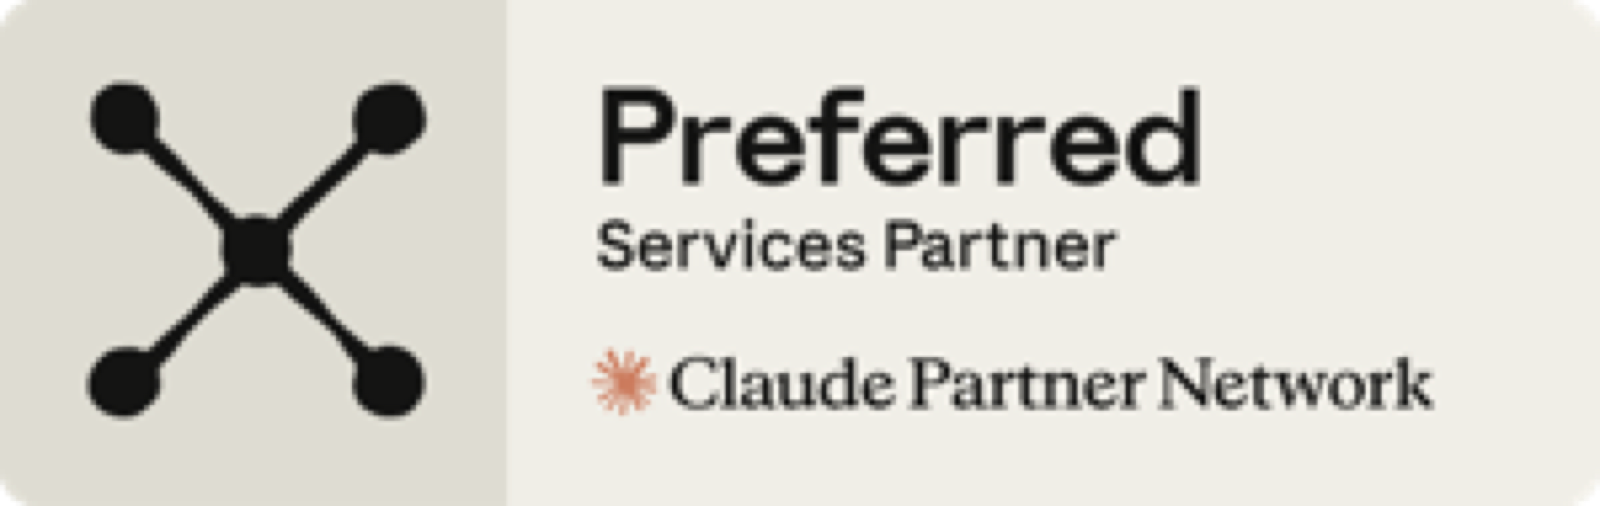
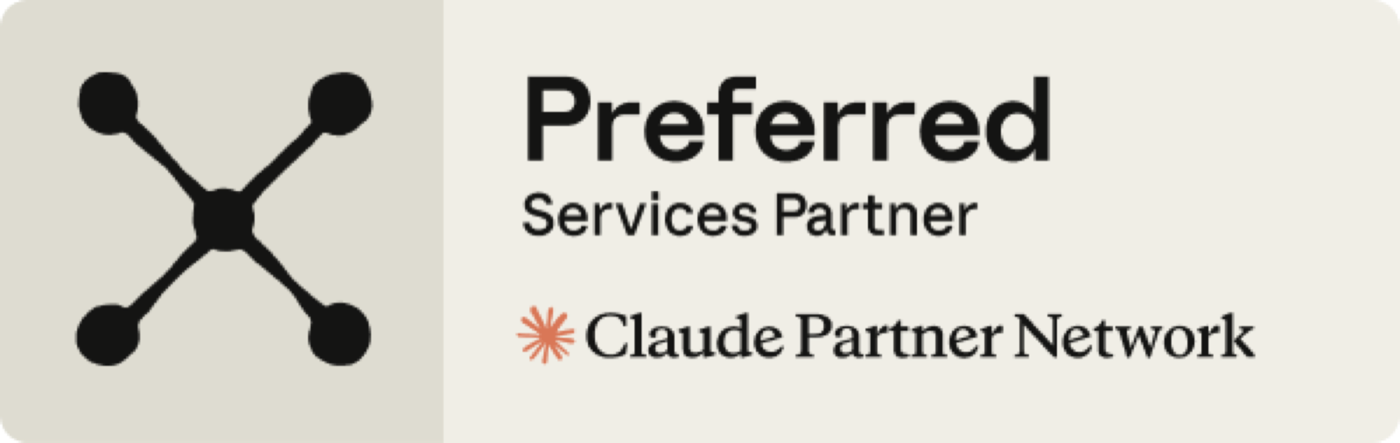
refine(partners): center person in team cloud, "公式パートナー" labels, hi-DPI Anthropic badge
- IllustTeam: reposition the person mark to sit centered within the cloud body
- Partners section labels → "Salesforce 公式パートナー" / "Anthropic 公式パートナー"
- Replace Anthropic badge PNG with a crisp high-DPI render (was upscaled/soft)

diff --git a/src/App.tsx b/src/App.tsx
@@ -261,9 +261,9 @@ const IllustTeam = () => (
       <circle cx="58" cy="40" r="20" fill={SF_BLUE} />
       <rect x="20" y="30" width="56" height="20" rx="10" fill={SF_BLUE} />
     </g>
-    {/* center person mark */}
-    <circle cx="150" cy="84" r="7" fill="white" />
-    <path d="M138 100 a12 10 0 0 1 24 0 z" fill="white" />
+    {/* center person mark — centered within the cloud body */}
+    <circle cx="150" cy="73" r="8" fill="white" />
+    <path d="M137 92 a13 11 0 0 1 26 0 z" fill="white" />
     {/* satellite member nodes */}
     {[[62, 48], [238, 48], [60, 138], [240, 138]].map(([cx, cy], i) => (
       <g key={i}>
@@ -496,14 +496,14 @@ const Partners = () => {
       png: '/images/salesforce-partner-Horizen.png',
       fallback: '/images/salesforce-partner.svg',
       alt: 'Salesforce Partner',
-      label: t('Salesforce パートナー', 'Salesforce Partner'),
+      label: t('Salesforce 公式パートナー', 'Salesforce Official Partner'),
       bg: 'from-[#e8f4fc] to-[#f5fafe]',
     },
     {
       png: '/images/claude-partner.png',
       fallback: '/images/claude-partner.svg',
       alt: 'Claude Partner Network — Preferred Services Partner',
-      label: t('Claude Partner Network（Anthropic）', 'Claude Partner Network (Anthropic)'),
+      label: t('Anthropic 公式パートナー', 'Anthropic Official Partner'),
       bg: 'from-[#f0ede6] to-[#faf8f4]',
     },
   ];
